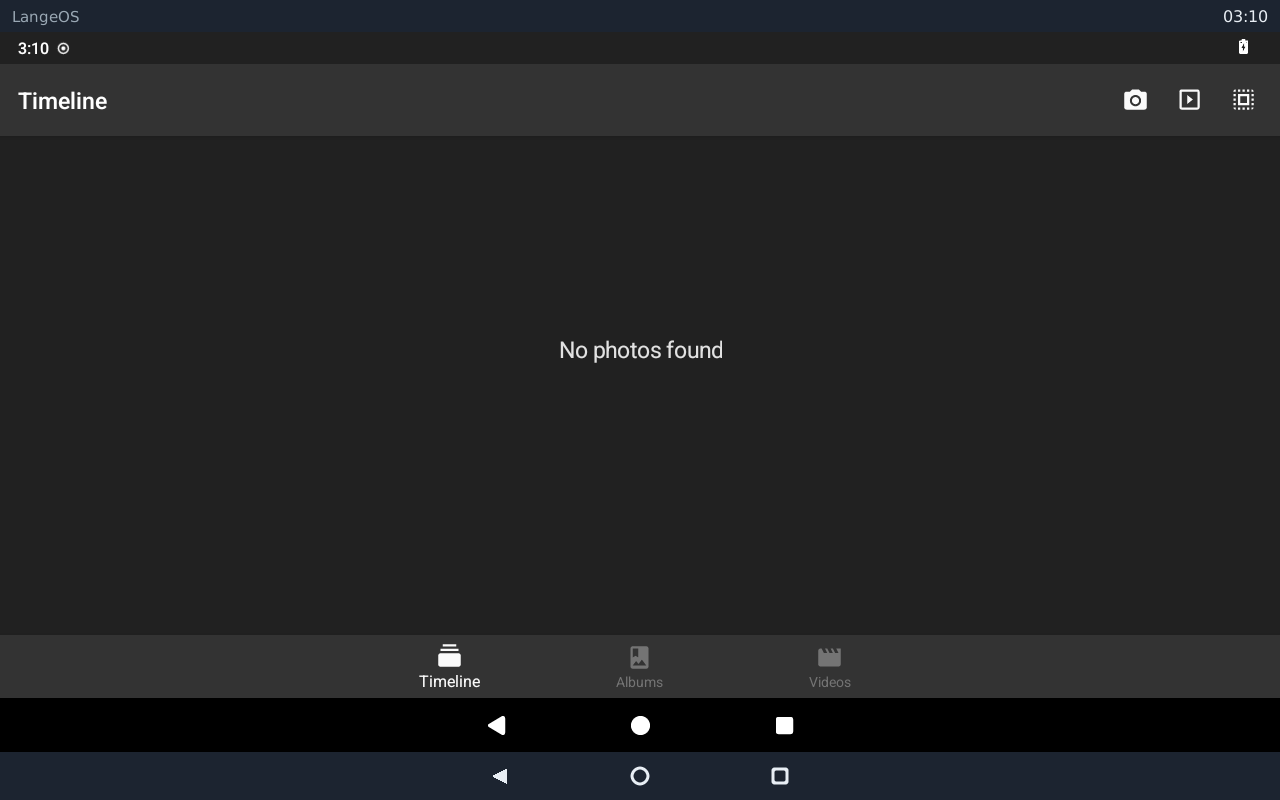
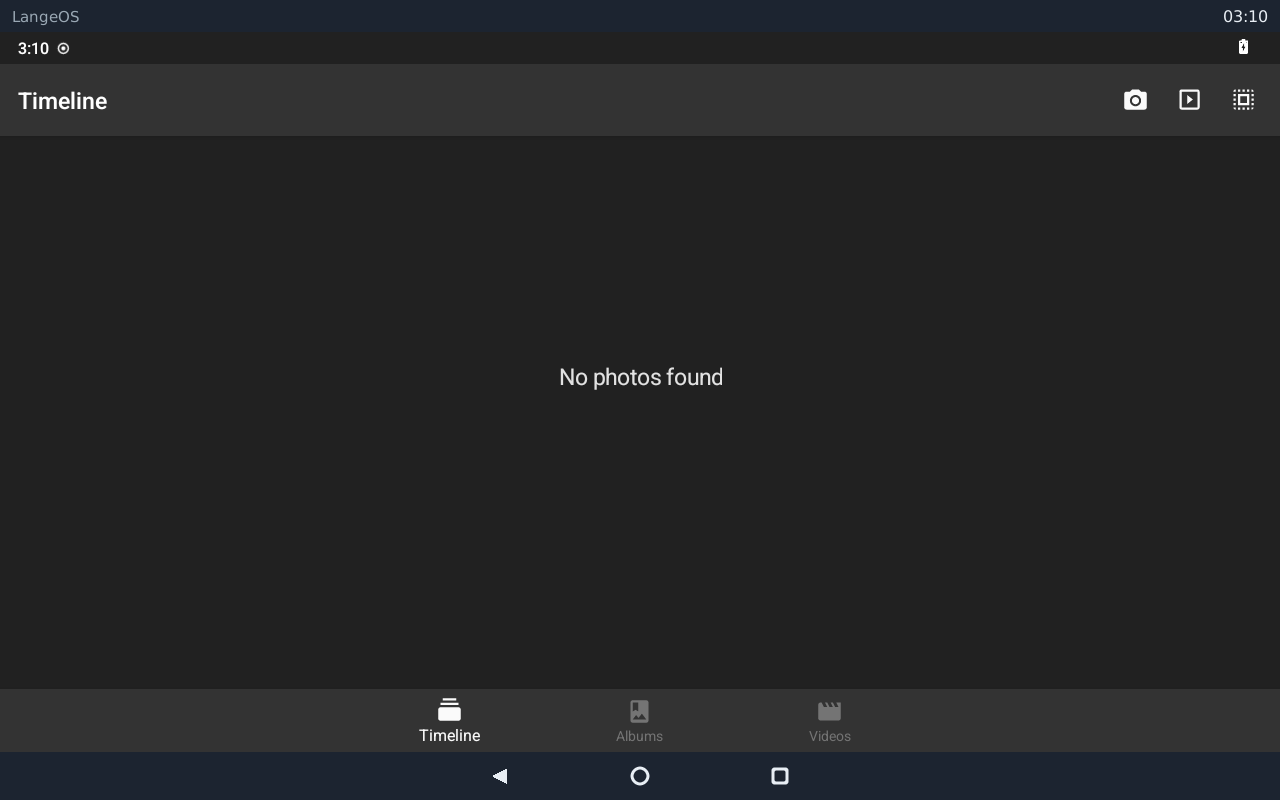
Etapa 7: navegação só do LangeOS, Voltar testado, watchdog mata o grupo
- run.sh: qemu.hw.mainkeys=1 esconde a barra de navegação do Android (a do
  shell nativo assume).
- test-android.sh: após abrir a Galeria, toca no Voltar nativo e confere que
  o shell volta à tela inicial (key back -> ok home).
- langedroid: cmd no container em grupo de processos próprio; no timeout o
  watchdog mata o grupo (o neto segurava os pipes e travava o daemon root).
- Nomes em português dos apps AOSP/LineageOS.

Claude-Session: https://claude.ai/code/session_01Wa3nsPrGqZVb1U1FKZi3UC

Changed region(s): [[0.0, 0.8125, 1.0, 0.9375], [0.4375, 0.4062, 0.5625, 0.5]]

diff --git a/langedroid/src/main.rs b/langedroid/src/main.rs
@@ -41,6 +41,7 @@ unsafe extern "C" {
     fn mknod(path: *const u8, mode: u32, dev: u64) -> i32;
     fn setns(fd: i32, nstype: i32) -> i32;
     fn kill(pid: i32, sig: i32) -> i32;
+    fn setpgid(pid: i32, pgid: i32) -> i32;
     fn chroot(path: *const u8) -> i32;
     fn fchdir(fd: i32) -> i32;
 }
@@ -411,6 +412,8 @@ impl Container {
             .stdout(std::process::Stdio::piped()).stderr(std::process::Stdio::piped());
         unsafe {
             cmd.pre_exec(move || {
+                // grupo próprio: o watchdog mata intermediário + neto juntos (neto segura os pipes)
+                if setpgid(0, 0) != 0 { return Err(std::io::Error::last_os_error()); }
                 for &fd in &fds { if setns(fd, 0) != 0 { return Err(std::io::Error::last_os_error()); } }
                 // setns(pid) só vale p/ filhos: bifurca. Sem isso /proc/self (do /proc do container) não
                 // existe p/ este processo e o linker do Android aborta. Intermediário repassa o status.
@@ -436,7 +439,7 @@ impl Container {
         thread::spawn(move || {
             let t = Instant::now();
             while !d.load(std::sync::atomic::Ordering::Relaxed) {
-                if t.elapsed() > Duration::from_secs(30) { unsafe { kill(pid, 9) }; break; }
+                if t.elapsed() > Duration::from_secs(30) { unsafe { kill(-pid, 9) }; break; }
                 thread::sleep(Duration::from_millis(50));
             }
         });
